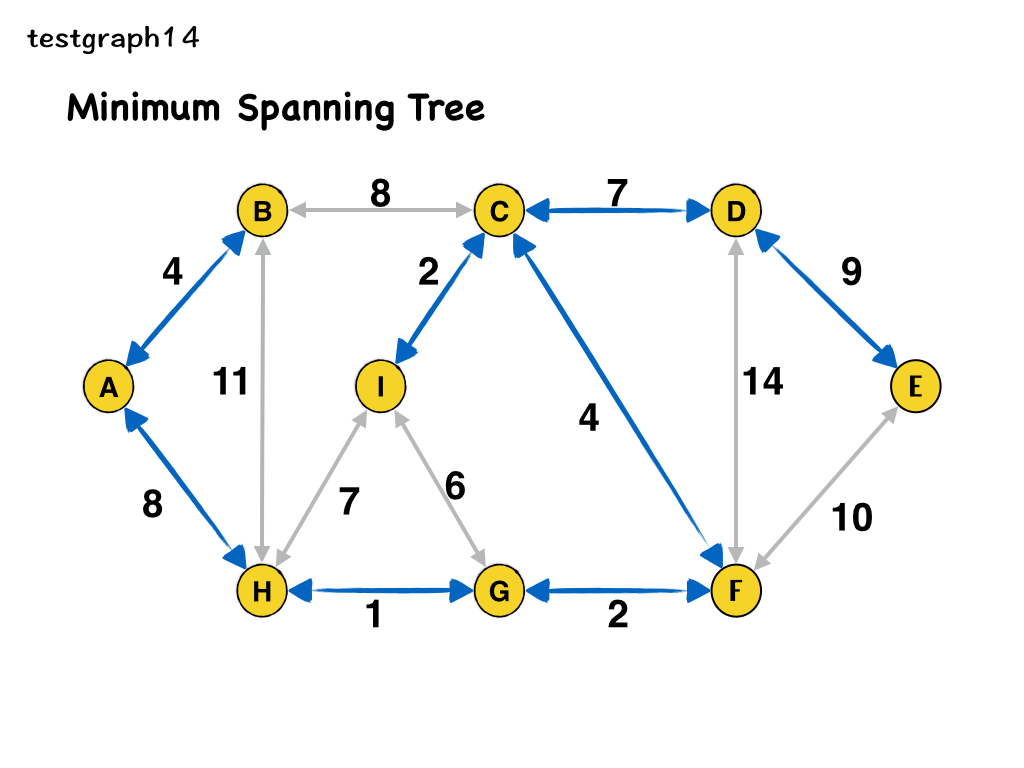
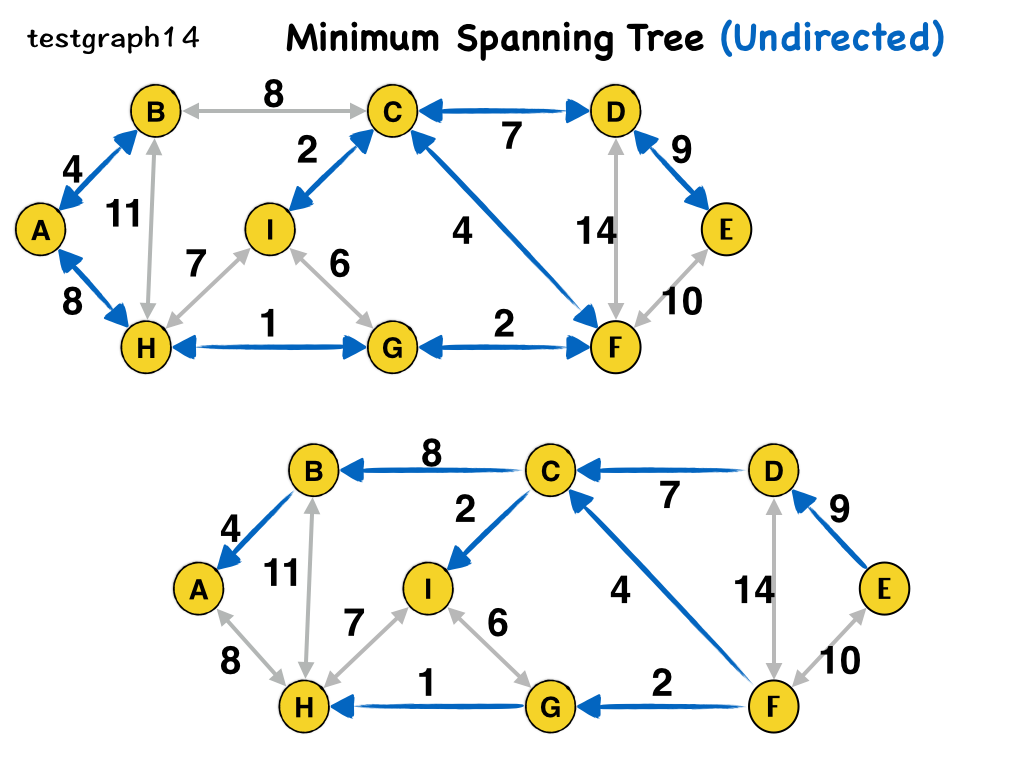
Update MST Kruskal Algorithm with Visualization

diff --git a/algorithm/mst/kruskal/kruskal.go b/algorithm/mst/kruskal/kruskal.go
@@ -1,2 +1,51 @@
 // Package kruskal implements the Kruskal Minimum Spanning Tree algorithm.
 package kruskal
+
+import (
+	"github.com/gyuho/goraph/goroup/gsdset"
+	"github.com/gyuho/goraph/graph/gsd"
+)
+
+/*
+A = ø
+for  each vertex  v ∈ G.V
+	Make-Set(v)
+
+sort the edges of G.E  in increasing order of w
+
+for each edge (u, v) ∈ G.E (increasing order)
+	if Find-Set(u) ≠ Find-Set(v)
+		A  =  A  U  {(u, v)}
+		Union(u, v)
+
+return A
+*/
+
+// MST implements Kruskal's Minimum Spanning Tree algorithm.
+func MST(g *gsd.Graph) []*gsd.Edge {
+	mstedges := []*gsd.Edge{}
+
+	// for  each vertex  v ∈ G.V
+	// 	Make-Set(v)
+	dsets := gsdset.MakeGraphSet(g)
+
+	// sort the edges of G.E  in increasing order of w
+	edges := gsdset.SortEdges(g)
+
+	// for each edge (u, v) ∈ G.E (increasing order)
+	for _, edge := range *edges {
+		// if Find-Set(u) ≠ Find-Set(v)
+		ru := gsdset.FindSet(edge.(*gsd.Edge).Src, dsets) // Find-Set(u)
+		rv := gsdset.FindSet(edge.(*gsd.Edge).Dst, dsets) // Find-Set(v)
+		if !gsd.SameVertex(ru, rv) {
+			// A  =  A  U  {(u, v)}
+			mstedges = append(mstedges, edge.(*gsd.Edge))
+			// gsdset.UnionByVtx(edge.(*gsd.Edge).Src, edge.(*gsd.Edge).Dst, &dsets)
+
+			// Union(u, v)
+			gsdset.UnionByRep(ru, rv, &dsets)
+		}
+	}
+
+	return mstedges
+}

diff --git a/algorithm/mst/kruskal/kruskal_visualize_test.go b/algorithm/mst/kruskal/kruskal_visualize_test.go
@@ -1,0 +1,37 @@
+package kruskal
+
+import (
+	"fmt"
+	"testing"
+
+	"github.com/gyuho/goraph/graph/gsd"
+)
+
+func Test_JSON_MSTString(test *testing.T) {
+	g14 := gsd.JSONGraph("../../../testgraph/testgraph.json", "testgraph.014")
+	result := MSTString(g14)
+	fmt.Println(result)
+	/*
+	   graph mst {
+	   	H -- G
+	   	G -- F
+	   	I -- C
+	   	B -- A
+	   	C -- F
+	   	D -- C
+	   	A -- H
+	   	D -- E
+	   }
+	*/
+
+	// The results are basically all the same but
+	// the order changes
+	// if result != rc {
+	//	test.Errorf("Should be same but\n%v\n%v", result, rc)
+	// }
+}
+
+func Test_JSON_ShowMST(test *testing.T) {
+	// g14 := gsd.JSONGraph("../../../testgraph/testgraph.json", "testgraph.014")
+	// ShowMST(g14, "g14mst.dot")
+}

diff --git a/algorithm/mst/kruskal/kruskal_visualize.go b/algorithm/mst/kruskal/kruskal_visualize.go
@@ -1,0 +1,36 @@
+package kruskal
+
+import (
+	"log"
+	"os"
+	"os/exec"
+
+	"github.com/gyuho/goraph/graph/gsd"
+)
+
+// MSTString returns the MST result in DOT format.
+func MSTString(g *gsd.Graph) string {
+	mstedges := MST(g)
+	result := "graph mst {" + "\n"
+	for _, edge := range mstedges {
+		result += "\t" + edge.Src.ID + " -- " + edge.Dst.ID + "\n"
+	}
+	result += "}"
+	return result
+}
+
+// ShowMST shows the Minimum Spanning Tree.
+func ShowMST(g *gsd.Graph, outputfile string) {
+	str := MSTString(g)
+	file, err := os.Create(outputfile)
+	defer file.Close()
+	if err != nil {
+		log.Fatal(err)
+	}
+	file.WriteString(str)
+	cmd := exec.Command("open", outputfile)
+	er := cmd.Run()
+	if er != nil {
+		log.Fatal(er)
+	}
+}

diff --git a/algorithm/mst/kruskal/kruskal_test.go b/algorithm/mst/kruskal/kruskal_test.go
@@ -1,1 +1,26 @@
 package kruskal
+
+import (
+	"fmt"
+	"testing"
+
+	"github.com/gyuho/goraph/graph/gsd"
+)
+
+func Test_JSON_MST(test *testing.T) {
+	g14 := gsd.JSONGraph("../../../testgraph/testgraph.json", "testgraph.014")
+	result := MST(g14)
+	for _, edge := range result {
+		fmt.Println(edge.Src.ID + " -- " + edge.Dst.ID)
+	}
+	/*
+	   H -- G
+	   G -- F
+	   I -- C
+	   A -- B
+	   C -- F
+	   D -- C
+	   C -- B
+	   D -- E
+	*/
+}

diff --git a/README.md b/README.md
@@ -6,6 +6,7 @@ goraph provides graph visualizing tools and algorithm implementations.
 - [Getting Started](https://github.com/gyuho/goraph#getting-started)
 - [To-Do-List](https://github.com/gyuho/goraph#to-do-list)
 - [Package Hierarchy](https://github.com/gyuho/goraph#package-hierarchy)
+- [Example](https://github.com/gyuho/goraph#example)
 - [Testing Graphs](https://github.com/gyuho/goraph#testing-graphs)
 - [List(Linked List) vs. Slice(Array)](https://github.com/gyuho/goraph#listlinked-list-vs-slicearray)
 - [What is Graph?](https://github.com/gyuho/goraph#what-is-graph)
@@ -97,6 +98,20 @@ viz/				# Graph Visualization (Graphviz)
 - <a href="https://github.com/gyuho/gson" target="_blank"><b>gson</b></a>: JSON Import Package
 - <a href="https://github.com/gyuho/gosequence" target="_blank"><b>gosequence</b></a>: Customized Slice(Array) Data Structure
 - <a href="http://www.graphviz.org" target="_blank"><b>Graphviz</b></a>: Graph Visualization
+
+[↑ top](https://github.com/gyuho/goraph#goraph---)
+
+
+Example
+==========
+##### Minimum Spanning Tree
+```go
+func Test_JSON_ShowMST(test *testing.T) {
+	g14 := gsd.JSONGraph("../../../testgraph/testgraph.json", "testgraph.014")
+	ShowMST(g14, "g14mst.dot")
+}
+```
+<img src="./files/g14mst.png" alt="g14mst" width="260px" height="220px"/>
 
 [↑ top](https://github.com/gyuho/goraph#goraph---)
 
